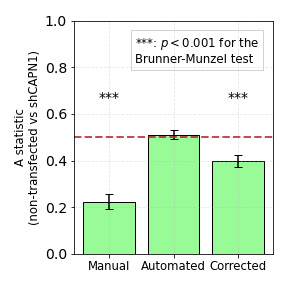
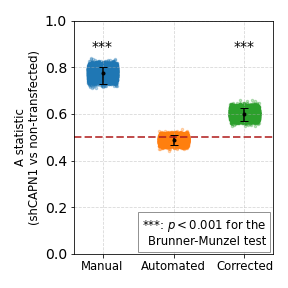
Dot column plot created

diff --git a/prototype.py b/prototype.py
@@ -169,43 +169,85 @@ fig, axes = plot_QQplot(fed_fast_dataset[0], fed_fast_dataset[2], ["Manual", "Co
 # %%
 def bootstrap_A_from_df(dataframe, random_seed = 10):
     data_arrays = df_columns_to_arrays(dataframe)
-    bootstrap_result = bootstrap_confidence_interval_2samp(*data_arrays, A_statistic, B = 20000, CI_algorithm = "BCa", random_seed = random_seed)
-    return Statistic(*bootstrap_result, "A statistic")
+    bootstrap_result = bootstrap_confidence_interval_2samp(data_arrays[1], data_arrays[0], A_statistic, B = 20000, CI_algorithm = "BCa", random_seed = random_seed)
+    return bootstrap_result
 # %%
-dataset = shCAPN1_dataset
+dataset = shLacz_dataset
 A_stats = [bootstrap_A_from_df(df) for df in dataset]
 exp_labels = ["Manual", "Automated", "Corrected"]
-A_val = np.array([A.value for A in A_stats])
-A_err = np.array([A.errorbar() for A in A_stats]).T
-
+# %%
+A_val = np.array([A[0] for A in A_stats])
+A_dist = np.stack([A[1] for A in A_stats])
+A_err = np.array([A[2] for A in A_stats])
+# %%
+A_val
 # %%
 from matplotlib import ticker
+def plot_column_scatter(means, values, CIs, experiment_labels, experiment_name, statistic_name, p_values):
+    fig, ax = plt.subplots(1, 1, figsize = (4, 4))
+    
+    x_means = np.arange(len(means))
+    errs = np.abs(CIs.T - means)
+    ax.errorbar(x_means, means, errs, linestyle = '', marker = '.', color = 'black', capsize = 4.0)
+    
+    Dx_scatter = np.random.uniform(low = -0.2, high = 0.2, size = values.shape)
+    for i, x_mean in enumerate(x_means):
+        ax.scatter(x_mean+Dx_scatter[i], values[i], s = 6.0, facecolors = None, alpha = 0.3)
+    ax.axhline(y = 0.5, linestyle = "--", color = "firebrick", linewidth = 2.0, alpha = 0.8)
+
+    ax.set_xticks(x_means)
+    ax.set_xticklabels(experiment_labels, fontsize = "small")
+    ax.set_ylabel(f"{statistic_name}\n({experiment_name} vs non-transfected)", fontsize = "small")
+
+    x_margin = 0.4
+    ax.set_xlim((x_means[0]-x_margin, x_means[-1]+x_margin))
+    y_lim = (0, 1)
+    ax.set_ylim(y_lim)
+
+    for i, p in enumerate(p_values):
+        if p < 0.001:
+            ax.text(i, 0.87*y_lim[1], "***", horizontalalignment = "center")
+    ax.text(2.3, 0.04*y_lim[1], "***: $p < 0.001$ for the\nBrunner-Munzel test", fontsize = "small", horizontalalignment = "right", bbox = {"facecolor": "white", "edgecolor": "grey", "alpha": 0.85})
+    ax.grid(alpha = 0.5)
+
+    fig.tight_layout()
+    return fig
+# %%
+p_vals = [0.94, 0, 0.33]
+fig = plot_column_scatter(A_val, A_dist, A_err, exp_labels, "shLacz", "A statistic", p_vals )
+#plt.savefig("./figures/figure5C.png")
+# %%
+# %%
+p_vals = [0, 0.86, 0]
+fig = plot_column_scatter(A_val, A_dist, A_err, exp_labels, "shCAPN1", "A statistic", p_vals )
+#plt.savefig("./figures/figure4C.png")
+# %%
 def plot_statistics_bar(values, errors, experiment_labels, experiment_name, statistic_name, p_values):
     x = np.arange(len(A_stats))
     
     fig, ax = plt.subplots(1, 1, figsize = (4, 4))
     ax.bar(x, values, yerr = errors, color = "palegreen", edgecolor = "black", capsize = 4.0)
-    ax.axhline(y = 0.5, linestyle = "--", color = "firebrick", linewidth = 2.0, alpha = 0.8)
+    #ax.axhline(y = 0.5, linestyle = "--", color = "firebrick", linewidth = 2.0, alpha = 0.8)
     
     ax.set_xticks(x)
     ax.set_xticklabels(experiment_labels, fontsize = "small")
-    ax.set_ylabel(f"{statistic_name}\n(non-transfected vs {experiment_name})", fontsize = "small")
-    y_lim = (0, 1)
+    ax.set_ylabel(f"{statistic_name}\n({experiment_name} vs non-transfected)", fontsize = "small")
+    y_lim = (0, 0.2)
     for i, p in enumerate(p_values):
         if p < 0.001:
-            ax.text(i, 0.65*y_lim[1], "***", horizontalalignment = "center")
+            ax.text(i, 0.85*y_lim[1], "***", horizontalalignment = "center")
     ax.grid(alpha = 0.3)
     ax.set_ylim(y_lim)
-    ax.text(0.4, 0.82*y_lim[1], "***: $p < 0.001$ for the\nBrunner-Munzel test", fontsize = "small", horizontalalignment = "left", bbox = {"facecolor": "none", "edgecolor": "lightgrey"})
-    #major_tick_loc = ticker.MultipleLocator(base = 0.05)
-    #ax.yaxis.set_major_locator(major_tick_loc)
+    ax.text(0.02, 0.04*y_lim[1], "***: $p < 0.001$ for the\nKolmogorov-Smirnoff test", fontsize = "small", horizontalalignment = "left", bbox = {"facecolor": "white", "edgecolor": "grey", "alpha": 0.85})
+    major_tick_loc = ticker.MultipleLocator(base = 0.05)
+    ax.yaxis.set_major_locator(major_tick_loc)
 
     fig.tight_layout()
     return fig
 # %%
 p_vals = [0, 0.86, 0]
 fig = plot_statistics_bar(A_val, A_err, exp_labels, "shCAPN1", "A statistic", p_vals)
-#plt.savefig("./figures/figure4C.png")
+#plt.savefig("column ./figures/figure4C.png")
 # %%
 p_vals = [0.94, 0, 0.33]
 fig = plot_statistics_bar(A_val, A_err, exp_labels, "shLacz", "A statistic", p_vals)
@@ -213,12 +255,14 @@ fig = plot_statistics_bar(A_val, A_err, exp_labels, "shLacz", "A statistic", p_v
 # %%
 import scipy.stats as scstats
 dataset = shLacz_dataset
-KS_test_results = np.array([scstats.ks_2samp(*df_columns_to_arrays(df)) for df in dataset])
+KS_test_results = np.array([scstats.ks_2samp(df_columns_to_arrays(df)[1], df_columns_to_arrays(df)[0]) for df in dataset])
 KS_vals = KS_test_results[:,0]
 p_vals = KS_test_results[:,1]
 
 fig = plot_statistics_bar(KS_vals, None, exp_labels, "shLacz", "KS statistic", p_vals)
 #plt.savefig("./figures/figure5D.png")
+# %%
+p_vals
 # %%
 sample1 = np.array(fed_fast_dataset[0].iloc[:,0], dtype = float)
 sample2 = np.array(fed_fast_dataset[0].iloc[:,1], dtype = float)
@@ -232,11 +276,11 @@ p
 # %%
 scstats.mstats.spearmanr(sample1, sample2)
 # %%
-data_ind = 3
-sample1, sample2 = shLacz_dataset[data_ind].iloc[:,0], shLacz_dataset[data_ind].iloc[:,1]
+data_ind = 2
+sample1, sample2 = shLacz_dataset[data_ind].iloc[:,1], shLacz_dataset[data_ind].iloc[:,0]
 sample1, sample2 = np.array(sample1, np.float32), np.array(sample2, np.float32)
 scstats.mstats.brunnermunzel(sample1, sample2, alternative = "two-sided", distribution = "normal")
-A_statistic(sample1, sample2)
+#A_statistic(sample1, sample2)
 # %%
 output = bootstrap_confidence_interval_2samp(sample1, sample2, A_statistic, B = 20000, CI_algorithm = "BCa")
 #%%
@@ -255,10 +299,11 @@ output = bootstrap_confidence_interval_2samp(sample1, sample2, A_statistic, B = 
 stat = Statistic(*output, "A_statistic")
 print(stat)
 # %%
-data_ind = 3
-sample1, sample2 = shCAPN1_dataset[data_ind].iloc[:,0], shCAPN1_dataset[data_ind].iloc[:,1]
+import scipy.stats as scstats
+data_ind = 2
+sample1, sample2 = shCAPN1_dataset[data_ind].iloc[:,1], shCAPN1_dataset[data_ind].iloc[:,0]
 sample1, sample2 = np.array(sample1, np.float32), np.array(sample2, np.float32)
-scstats.mstats.brunnermunzel(sample1, sample2, alternative = "less", distribution = "normal")
+scstats.mstats.brunnermunzel(sample1, sample2, alternative = "greater", distribution = "normal")
 # %%
 A_statistic(sample1, sample2)
 # %%

diff --git a/bootstrap.py b/bootstrap.py
@@ -31,12 +31,12 @@ def bootstrap_confidence_interval_2samp(sample1, sample2, stat_func_2samp, B = 1
         CI = _calculate_CI_basic(sample_stat, bootstrap_dist, confidence_level)
 
     elif CI_algorithm == "BCa":
-        jackknife_func_2samp = jackknife_factory_2samp(stat_func_2samp)
-        jackknife_dist1 = jackknife_func_2samp(sample1, sample2)
-        jackknife_dist2 = jackknife_func_2samp(sample2, sample1)
+        jackknife_func_2samp_1, jackknife_func_2samp_2 = jackknife_factory_2samp(stat_func_2samp)
+        jackknife_dist1 = jackknife_func_2samp_1(sample1, sample2)
+        jackknife_dist2 = jackknife_func_2samp_2(sample1, sample2)
         CI = _calculate_CI_BCa_2samp(sample_stat, bootstrap_dist, jackknife_dist1, jackknife_dist2, confidence_level)
     
-    return sample_stat, CI
+    return sample_stat, bootstrap_dist, CI
 
 ## Lower level functions
 
@@ -85,16 +85,24 @@ def bootstrap_factory_2samp(stat_func_2samp):
 
 def jackknife_factory_2samp(stat_func_2samp):
     @jit("float32[:](float32[:], float32[:])", nopython = True, parallel = True)
-    def jackknife_func_2samp(sample1, sample2):
+    def jackknife_func_2samp_1(sample1, sample2):
         # jackknifes along the first sample
-        # if need to jackknife along the second sample, call the function with arguments in reversed order
         jackknife_dist = []
         for i in prange(len(sample1)):
             jackknife_sample1 = np.concatenate((sample1[:i], sample1[i+1:]))
             jackknife_dist.append(stat_func_2samp(jackknife_sample1, sample2))
         return np.array(jackknife_dist)
 
-    return jackknife_func_2samp
+    @jit("float32[:](float32[:], float32[:])", nopython = True, parallel = True)
+    def jackknife_func_2samp_2(sample1, sample2):
+        # jackknifes along the first sample
+        jackknife_dist = []
+        for i in prange(len(sample1)):
+            jackknife_sample2 = np.concatenate((sample2[:i], sample2[i+1:]))
+            jackknife_dist.append(stat_func_2samp(sample1, jackknife_sample2))
+        return np.array(jackknife_dist)
+
+    return jackknife_func_2samp_1, jackknife_func_2samp_2
 
 
 @jit("UniTuple(float32, 2)(float32, float32[:], float32)", nopython = True)
